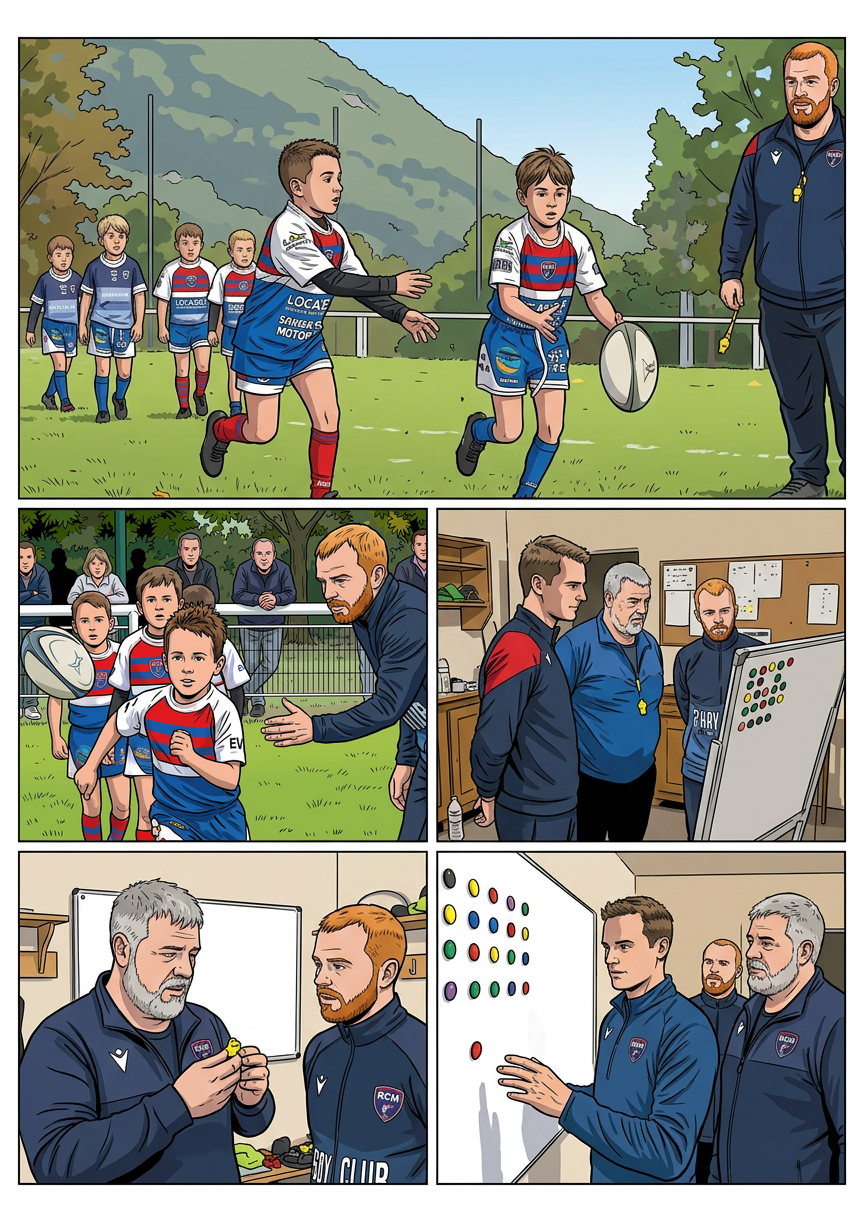
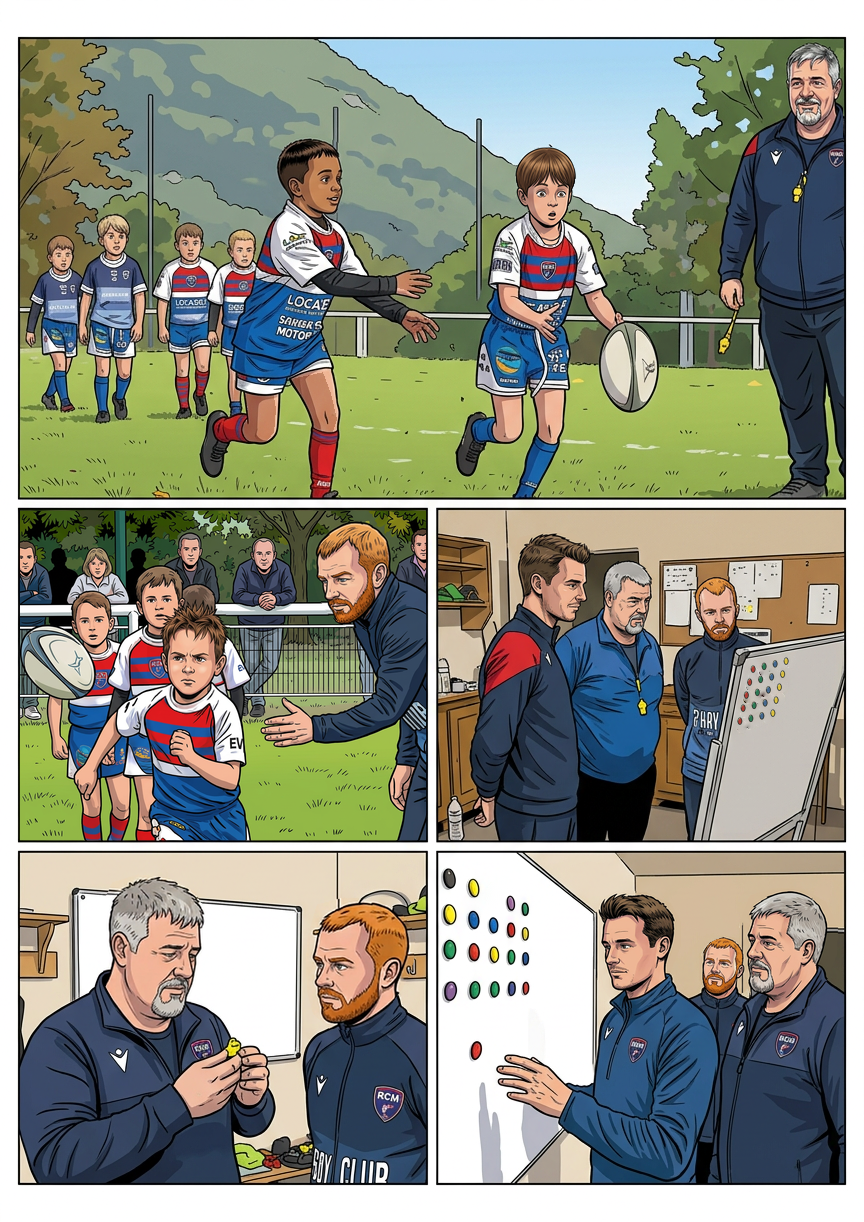
Revoir la planche 5 : Julien, teint mat de Nolann et modèles de couverture

diff --git a/Planches-dessin/validation/REVUE-COUVERTURE.md b/Planches-dessin/validation/REVUE-COUVERTURE.md
@@ -21,12 +21,12 @@ Les huit recadrages exacts sont dans `revue-couverture/<Prénom>-couverture.png`
 |---|---:|
 | Planches vues en ensemble | 30 |
 | Vignettes réellement inventoriées | 153 |
-| Premières reprises intégrées, encore à relire | 23 |
+| Premières reprises intégrées, encore à relire | 28 |
 | Corrections seulement partielles, à poursuivre | 1 |
-| Autres vignettes restant à contrôler individuellement | 129 |
+| Autres vignettes restant à contrôler individuellement | 124 |
 | Validations définitives de style et ressemblance | **0** |
 
-Les 24 vignettes ayant reçu une intervention ne sont pas 24 vignettes définitivement conformes. Le reste de la revue demandée n’est pas terminé. Le manifeste `REVUE-COUVERTURE.json` conserve une entrée et un état explicite pour chacune des 153 vignettes.
+Les 29 vignettes ayant reçu une intervention ne sont pas 29 vignettes définitivement conformes. Le reste de la revue demandée n’est pas terminé. Le manifeste `REVUE-COUVERTURE.json` conserve une entrée et un état explicite pour chacune des 153 vignettes.
 
 ## Première livraison : 26/3 et 26/6
 
@@ -93,6 +93,18 @@ Cinq nouvelles vignettes examinées/corrigées et **04/5** reprise au-delà de s
 
 Comparatif : `revue-couverture/lot-e/04-AVANT-APRES.jpg`. Six masques de cette passe et six masques cumulatifs documentent la localité. Contrôle visuel après montage des portraits et de la page entière ; les réserves sur les raccords de scénario, les tenues et l’encrage des corps/décors restent ouvertes pour la relecture globale.
 
+## Sixième livraison : les cinq vignettes de la planche 5
+
+Chaque case a été comparée à son scénario, à sa source réaliste et aux recadrages nominatifs de couverture. Cinq premières reprises intégrées, aucune validation définitive.
+
+- **05/1 :** substitution manifeste corrigée : le coach roux était **Kilian**, alors que le scénario et la source réaliste désignent **Julien**. Nouvelle tête grise à bouc/moustache. Le passeur est **Nolann**, trop pâle auparavant : visage et courte frange brune repris, mains et jambes visibles accordées localement au teint mat. **Milo** reçoit une reprise spécifique de sa coiffure : le premier candidat gardait des pics ; ils ont été retirés et remplacés par une frange châtaine pleine. Surprise conservée. Tenues, gestes de passe/en-avant, ballon, quatre enfants de fond et terrain hors masques préservés. Six enfants visibles dans ce cadrage : ce n’est pas une preuve de dix joueurs simultanément visibles.
+- **05/2 :** tête de **Léon** reprise sur le modèle avec pics châtains et expression d’agacement, pas le sourire de couverture collé à la scène. **Kilian** retrouve traits et barbe rousse du modèle. Autres joueurs, ballon, main du coach, spectateurs et décor hors masques conservés.
+- **05/3 :** portraits des trois coachs rapprochés des modèles, notamment légère pilosité de Flavien et bouc/moustache de Julien plutôt qu’une barbe pleine. Le tableau comportait **22 aimants** irréguliers (5 + 3 + 5 + 5 + 4). Ils sont remplacés localement par **20 aimants, en quatre colonnes de cinq**, selon le scénario. Cadre et reste du tableau, pièces du local et corps hors masques préservés.
+- **05/4 :** Julien retrouve son bouc/moustache gris sans barbe sur les joues ; Kilian reprend les traits du modèle. Deux mains, sifflet jaune, cordon, vêtements et tableau hors masques conservés.
+- **05/5 :** portraits Flavien/Julien/Kilian repris ; le tableau montrait **20 aimants groupés plus le rouge isolé**, soit 21. Retrait local d’un rouge du groupe : **19 groupés + le rouge isolé = 20**. Les autres aimants et la main sont conservés hors masque. Le nom « LÉON » et les listes ne sont pas ajoutés avant la phase de lettrage demandée par l’utilisateur.
+
+Preuves : `revue-couverture/lot-f/05-AVANT-APRES.jpg`, `AIMANTS-05.jpg` et cinq masques. Le contrôle indépendant des composantes colorées/sombres dans les zones de tableaux retrouve 20 disques complets dans chaque résultat (éléments de pièce/cadre touchant les limites de zone exclus). Il ne certifie ni les ressemblances ni le style. Montage relu à l’échelle des portraits et de la page ; tenues, raccords et encrage des corps/décors restent soumis à la relecture globale.
+
 ## Contrôles techniques et audits historiques
 
 `outils/retouche/verifier_revue_couverture.py` compare les 31 PNG au début de la revue : couverture inchangée, dimensions, empreintes, absence de modification des fichiers non concernés et invariance des pixels hors masques. Il contrôle également la cohérence des états et du bilan. **Il ne mesure pas la ressemblance ou la qualité du dessin.**
@@ -101,7 +113,7 @@ Les vérificateurs des audits 13–22, comme ceux de 23–30, s’appliquent dé
 
 ## Suite obligatoire
 
-Contrôler individuellement les **129 autres vignettes**, terminer **14/2**, puis relire les premières reprises, notamment les six cases de la planche 4 et les réserves de scénario. Vérifier systématiquement chaque occurrence de Nolann et des sept autres personnages, ainsi que décors et encrage : la revue ne peut pas se limiter aux couleurs de peau/cheveux.
+Contrôler individuellement les **124 autres vignettes**, terminer **14/2**, puis relire les premières reprises, notamment les six cases de la planche 4 et les réserves de scénario. Vérifier systématiquement chaque occurrence de Nolann et des sept autres personnages, ainsi que décors et encrage : la revue ne peut pas se limiter aux couleurs de peau/cheveux.
 
 Procédure : identification au scénario → comparaison aux personnages de couverture → comparaison à la planche réaliste → correction locale → relecture en contexte de page. Les raccords cou/cheveux/mains et les tenues restent à contrôler. Aucun candidat simplement généré n’est automatiquement validé.
 

diff --git a/Planches-dessin/SUIVI-STYLE.md b/Planches-dessin/SUIVI-STYLE.md
@@ -2,7 +2,7 @@
 
 **La couverture `00-couverture-marvel.png` est désormais la seule référence de style et d’identité.** La décision utilisateur remplace la priorité V2 décrite dans l’historique ci-dessous. La couverture reste inchangée.
 
-Suivi actuel : [`validation/REVUE-COUVERTURE.md`](validation/REVUE-COUVERTURE.md) et son manifeste JSON : 153 vignettes inventoriées, 23 premières reprises, 1 correction partielle, 129 autres contrôles individuels à faire, aucune validation définitive. Les anciennes approbations ne valent pas conformité au nouveau référentiel.
+Suivi actuel : [`validation/REVUE-COUVERTURE.md`](validation/REVUE-COUVERTURE.md) et son manifeste JSON : 153 vignettes inventoriées, 28 premières reprises, 1 correction partielle, 124 autres contrôles individuels à faire, aucune validation définitive. Les anciennes approbations ne valent pas conformité au nouveau référentiel.
 
 ---
 
